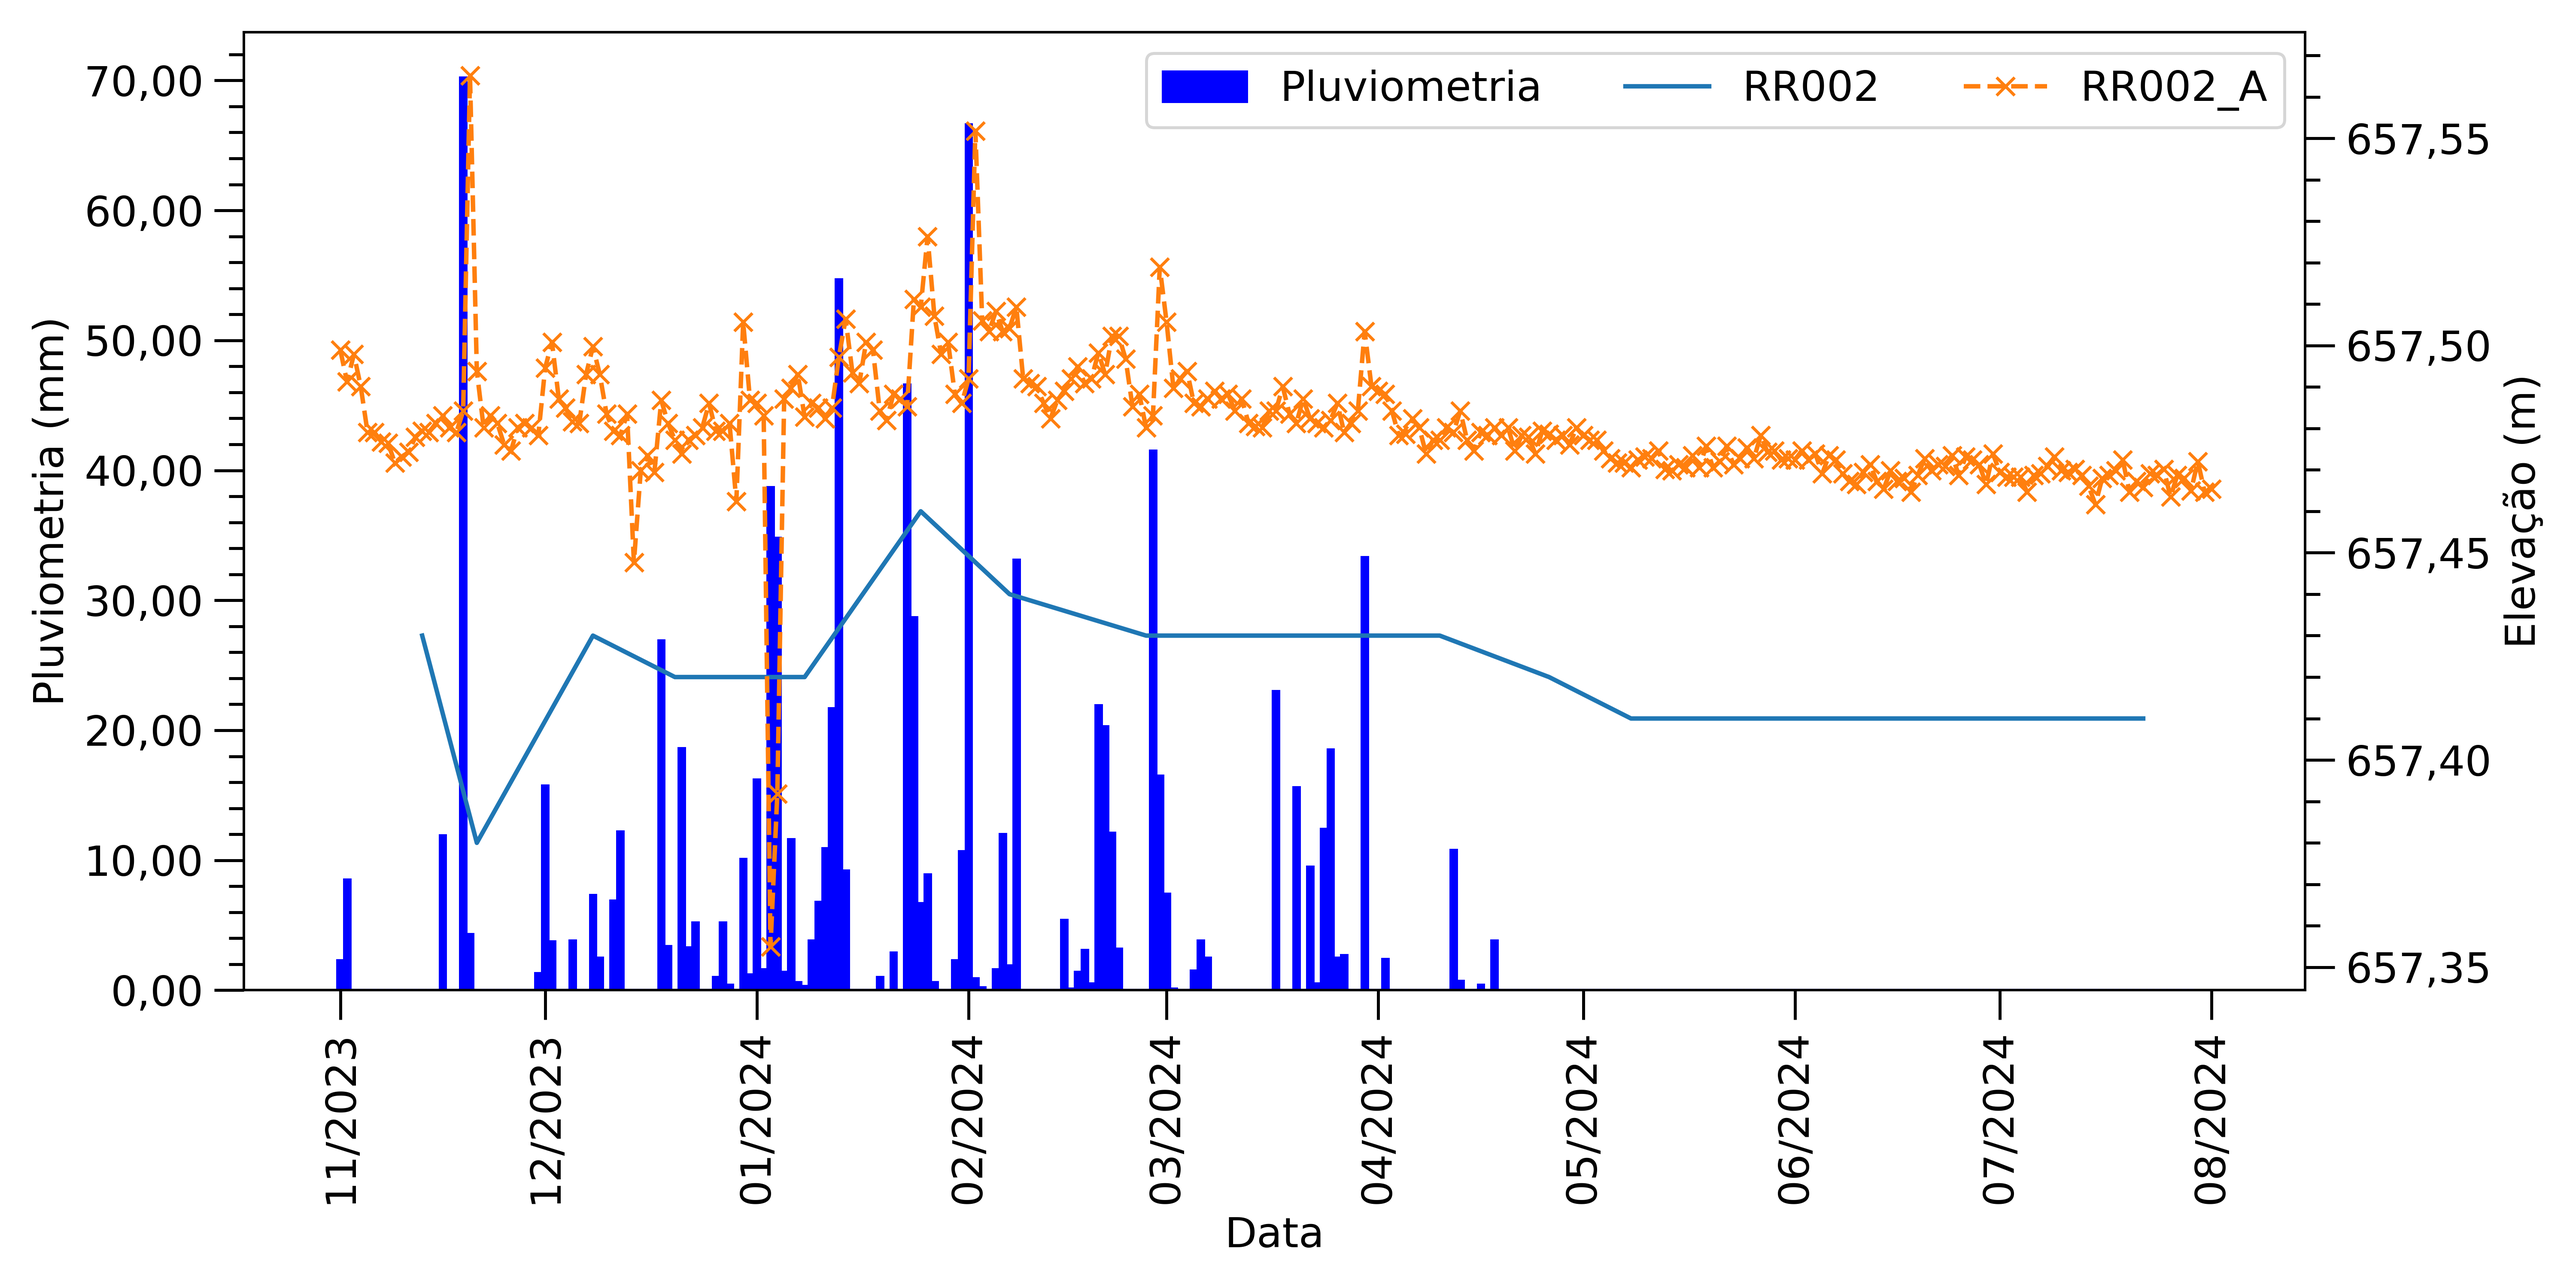
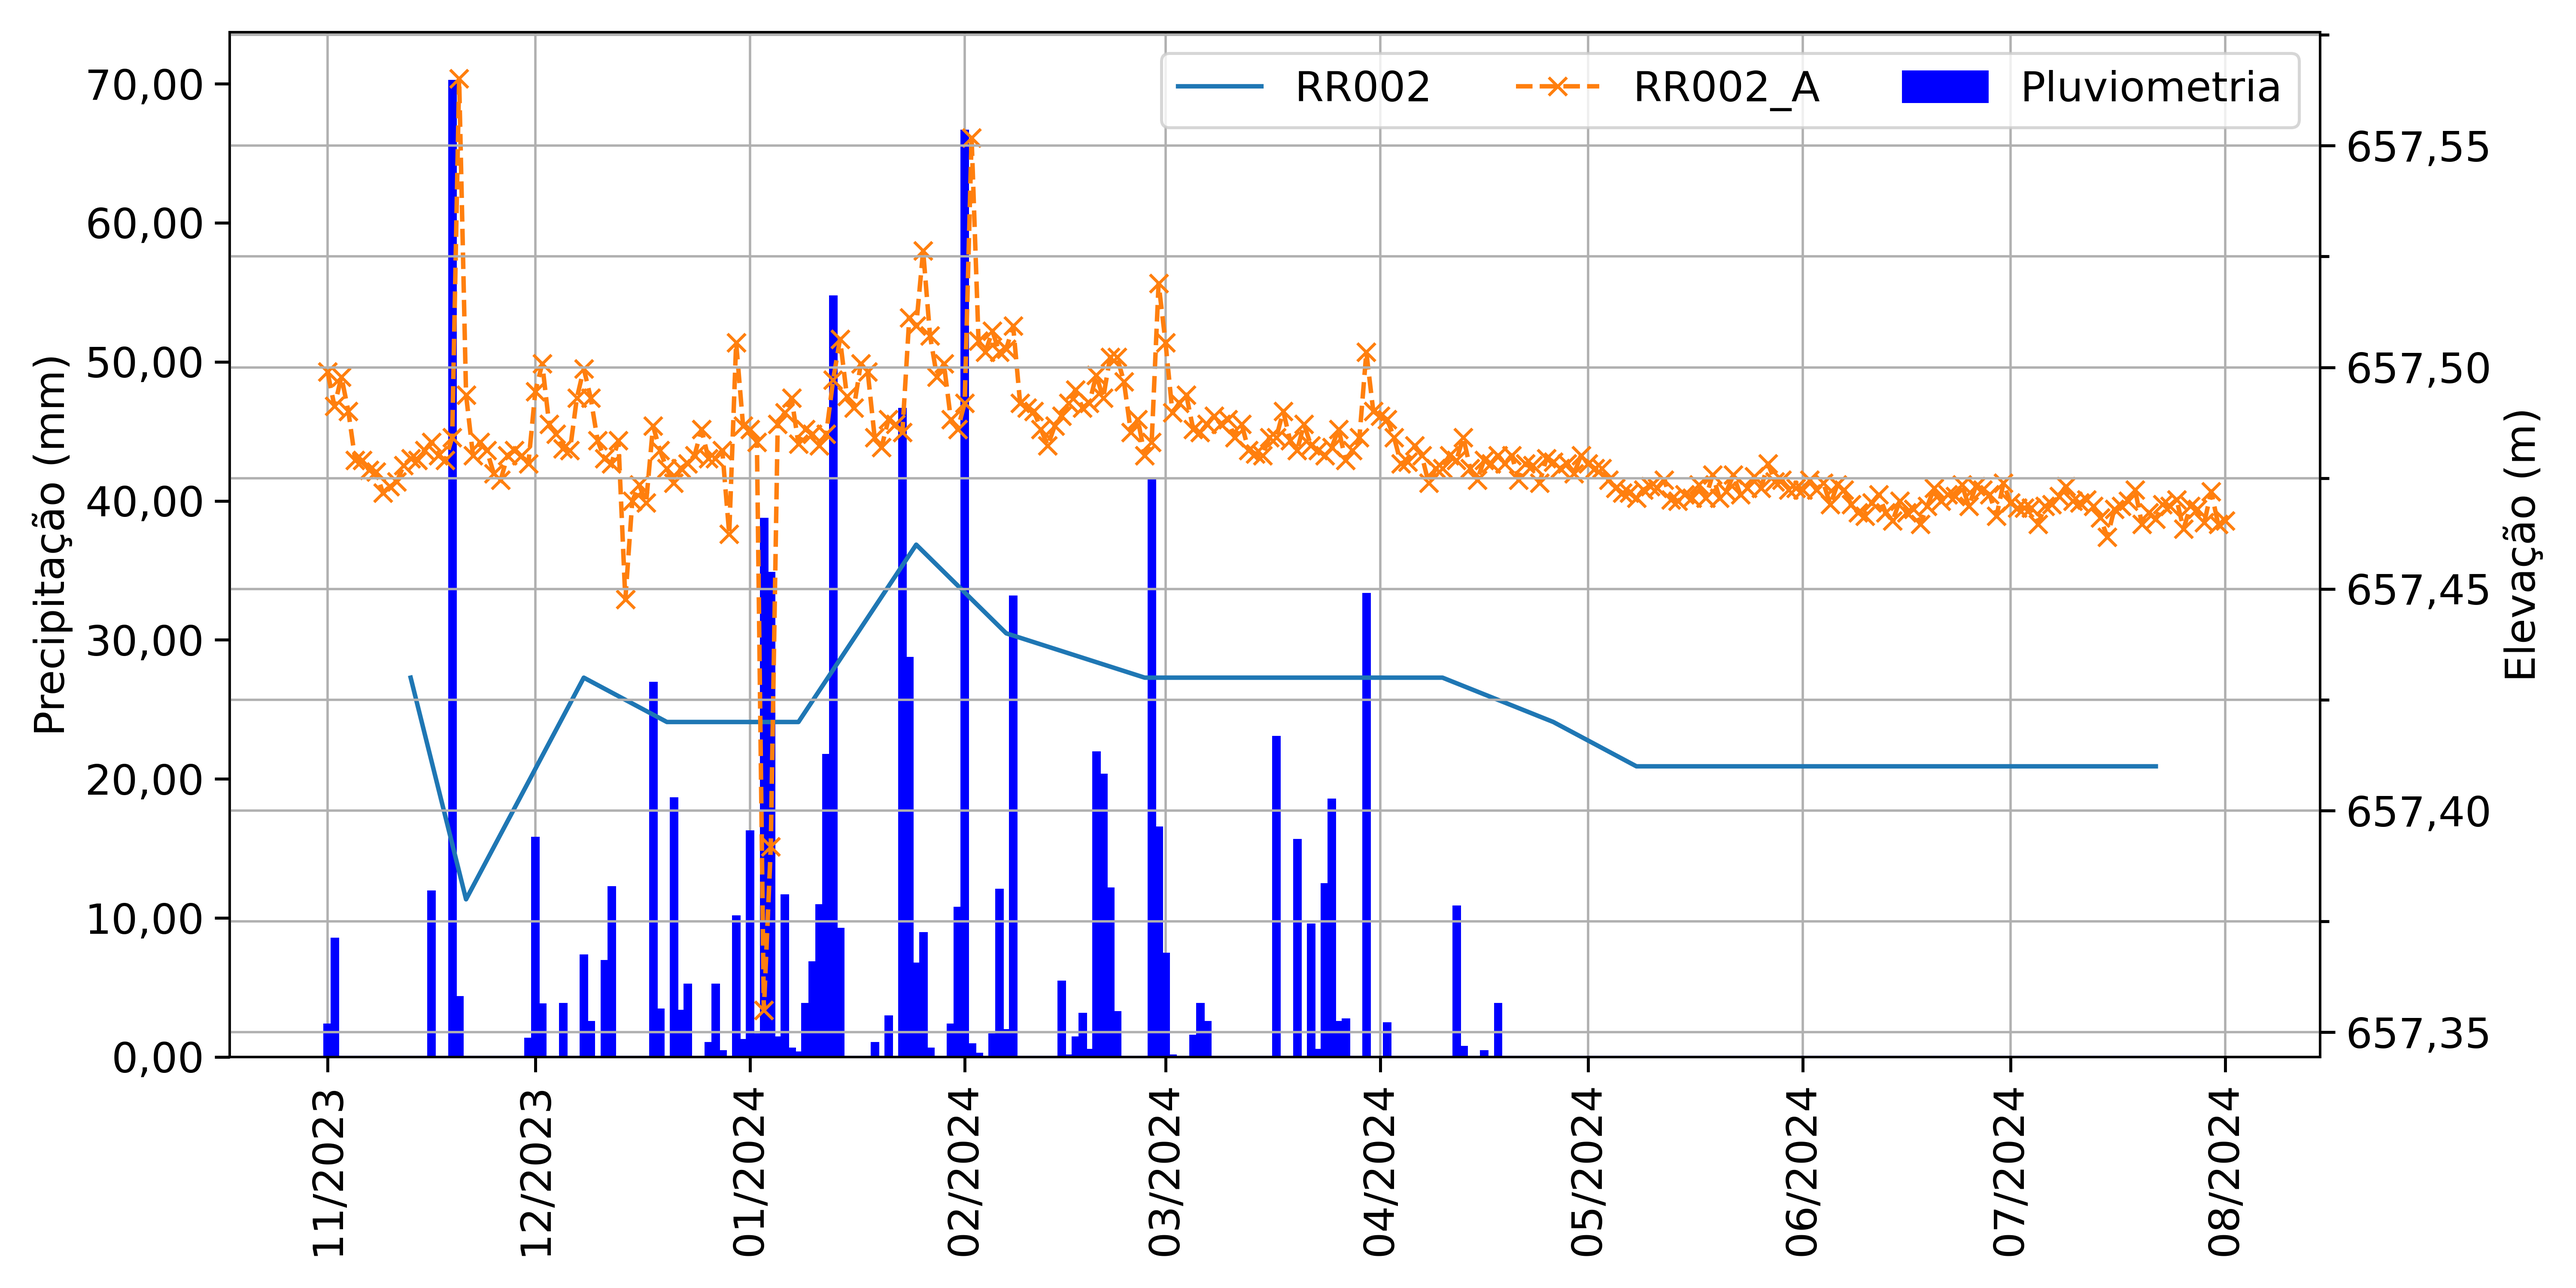
Atualizações para o gráfico do GEOTEC part1
Atualizações dos parâmetros para estar de acordo com o GEOTEC

Tentativa falha de configurar a posição dos eixos

diff --git a/modules/classes.py b/modules/classes.py
@@ -144,12 +144,12 @@ class Grafico():
             xMajorLocator = MonthLocator(interval=1),
             xMinorLocator = MonthLocator(interval=1),
             yMajorLocator = AutoLocator(),
-            yMinorLocator = AutoMinorLocator(),
+            yMinorLocator = AutoMinorLocator(2),
             y2MajorLocator = AutoLocator(),
-            y2MinorLocator = AutoMinorLocator(),
-            invertSidesYAxis = True,
+            y2MinorLocator = AutoMinorLocator(1),
+            invertSidesYAxis = False,
             figureAutoLayout = True,
-            grid = False,
+            grid = True,
             rectFigureBaseAdd_axes = [0.1, 0.2, 0.8, 0.7],
             xLabelTicksRotation = 90,
             yLabelTicksRotation = 0,
@@ -157,16 +157,16 @@ class Grafico():
             axMargins = 0.1005,
             ax2Margins = 0.1005,
 
-            xLabel = "Data",
+            xLabel = "",
             xLabelFontsize = 14,
             yLabel = "Elevação (m)",
             yLabelFontsize = 14,
-            y2Label = "Pluviometria (mm)",
+            y2Label = "Precipitação (mm)",
             y2LabelFontsize = 14,
             tickMajorWidth = 1.,
             tickMinorWidth = 1.,
-            tickMajorLength = 10,
-            tickMinorLength = 5,
+            tickMajorLength = 5,
+            tickMinorLength = 3,
             labelMajorSize = 14,
             labelMinorSize = 10,
             labelMajorColor = "black",
@@ -192,9 +192,6 @@ class Grafico():
             # Axes
             self.ax:plt.Axes = self.fig.add_axes(self.setup["rectFigureBaseAdd_axes"])
         
-        if self.setup["invertSidesYAxis"]:
-            self.ax.yaxis.set_label_position("right")
-            self.ax.yaxis.tick_right()
             
         self.hasSecundary = hasSecundary
         # Creating secundary axis, if exist
@@ -202,17 +199,31 @@ class Grafico():
             if serie.toSecundary or self.hasSecundary:
                 secondAxis = self.ax.twinx()
                 # self.ax2 = secondAxis
-                
                 # Invert axis because self.ax2 must be the first generated
                 self.ax,self.ax2 = secondAxis,self.ax
-                if self.setup["invertSidesYAxis"]:
-                    # Inverting sides
-                    self.ax.yaxis.set_label_position("right")
-                    self.ax.yaxis.tick_right()
-                    self.ax2.yaxis.set_label_position("left")
-                    self.ax2.yaxis.tick_left()
                 self.hasSecundary = True
                 break
+        if self.setup["grid"]:
+            if self.hasSecundary:
+                self.ax2.grid(self.setup["grid"],axis="x")
+                self.ax.grid(self.setup["grid"],"both",axis="y")
+            else:
+                self.ax.grid(self.setup["grid"],axis="x")
+                self.ax.grid(self.setup["grid"],"both",axis="y")
+                
+        # Put the axis on the correct place
+        print(self.setup["invertSidesYAxis"])
+        if self.hasSecundary:
+            if self.setup["invertSidesYAxis"]:
+                self.ax.yaxis.set_label_position("left")
+                self.ax.yaxis.tick_left()
+                self.ax2.yaxis.set_label_position("right")
+                self.ax2.yaxis.tick_right()
+                print("inverteu os dois eixos")
+            else:
+                self.ax.yaxis.set_label_position("right")
+                self.ax.yaxis.tick_right()
+                print("inverteu um eixo só")
         pass
                 
 

diff --git a/main.py b/main.py
@@ -19,6 +19,7 @@ if __name__=="__main__":
     
     #Construindo ordem de plotagem
     series = [manuais,automaticas,pluviometria]
+    # series = [manuais,automaticas]
     
     #Inicializando, renderizando e salvando o gráfico
     graph = Grafico(series=series)
